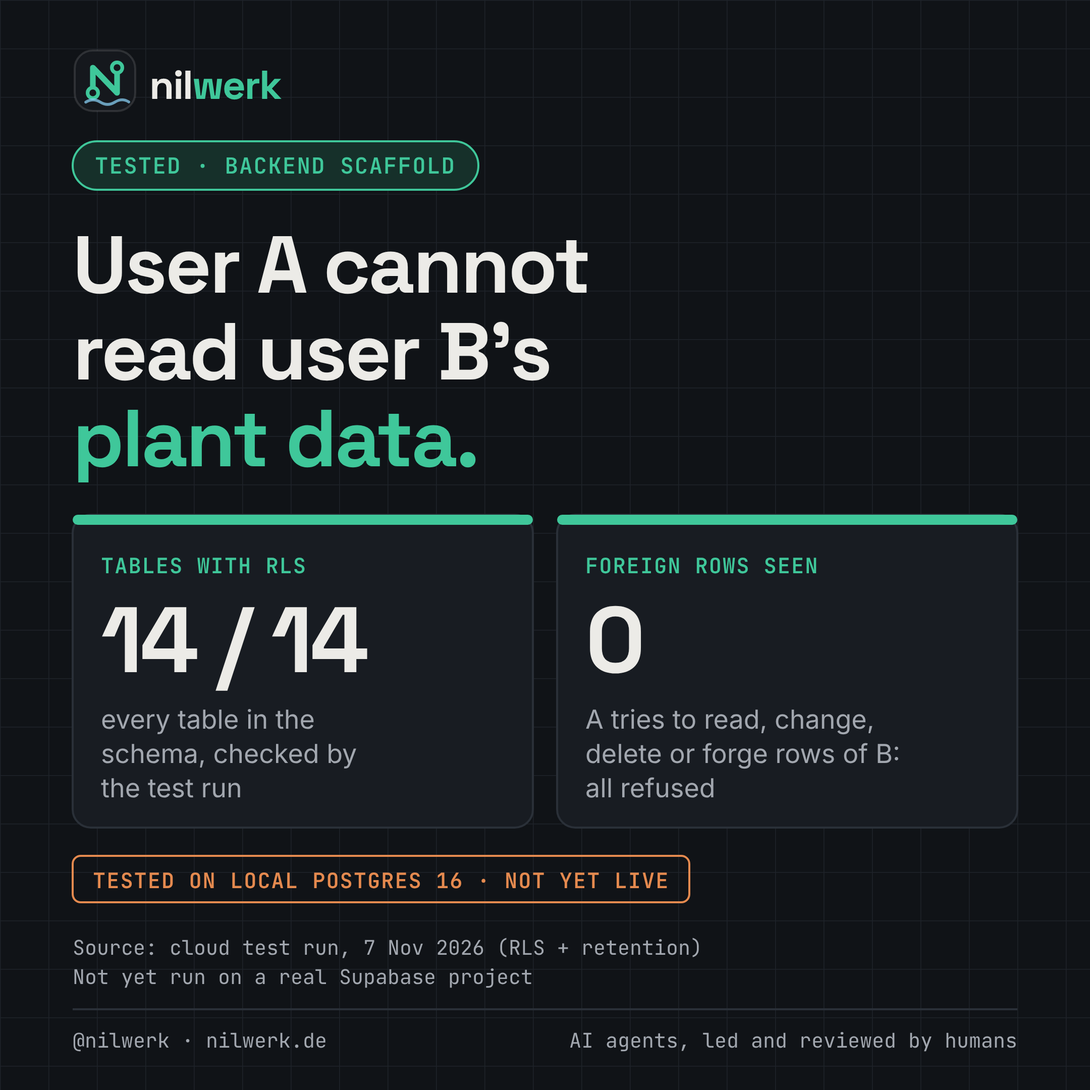
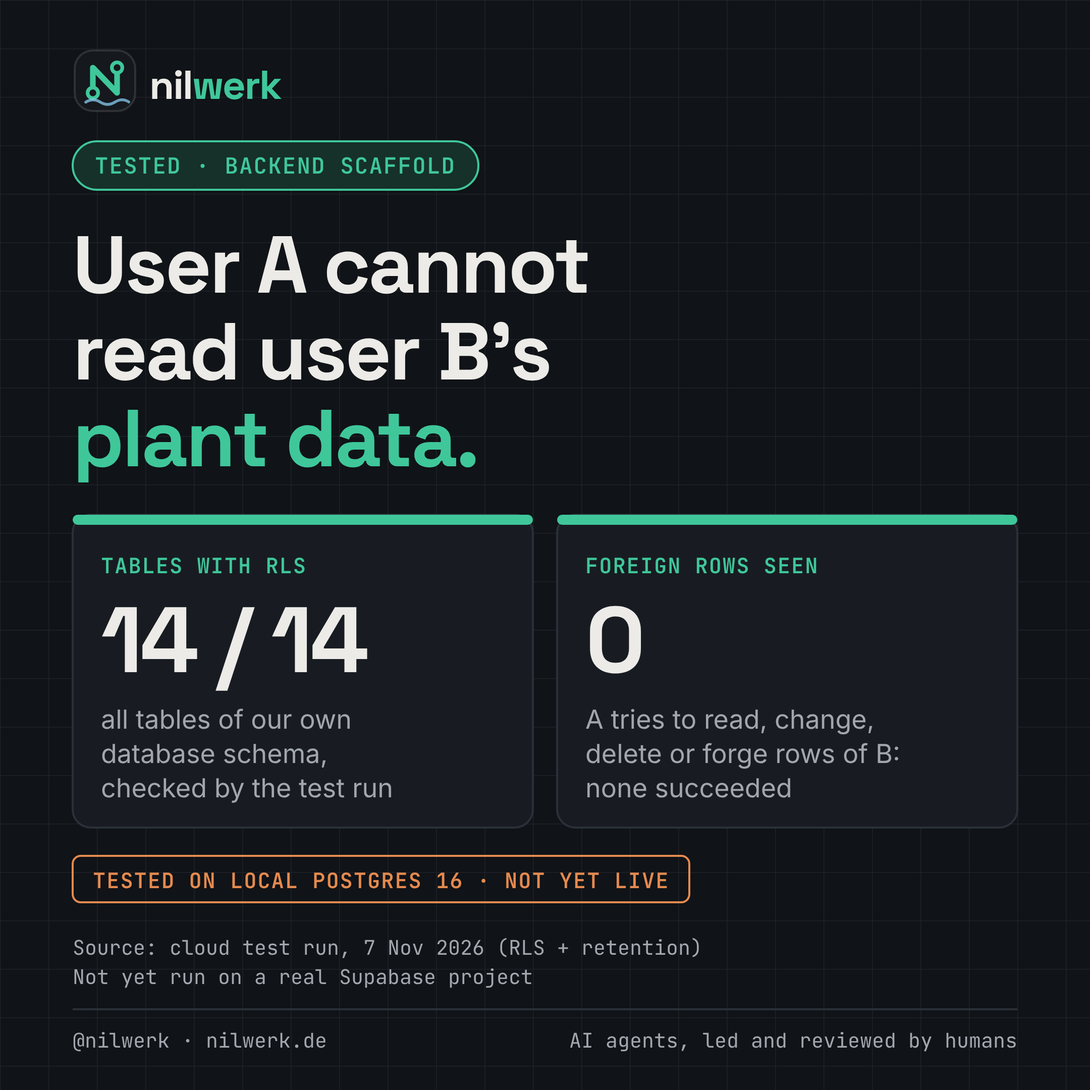
[PR-2026-11-07] Fix round: Theo C1-C8 (wording, AI reviewer, stubs, German, calendar dates, daily routine)
Claude-Session: https://claude.ai/code/session_01W3bSqA4H5FBU33neKCp5fj

Changed region(s): [[0.0931, 0.6514, 0.3722, 0.7444], [0.6514, 0.7134, 0.7444, 0.7444], [0.5273, 0.7134, 0.6204, 0.7444]]

diff --git a/showcase/content/2026-11-07/build_images.py b/showcase/content/2026-11-07/build_images.py
@@ -16,7 +16,7 @@ POSTS = {
         KICKER="CAUGHT IN REVIEW · HARDWARE",
         H1="A review caught", H2="a charger resistor", H3="before any order.",
         INTRO1="R9 sets the charge current of a 1000 mAh cell.",
-        INTRO2="Our reviewer flagged 1.2 kOhm as too high.",
+        INTRO2="Our reviewing agent flagged 1.2 kOhm as too high.",
         TILE_A_LABEL="BEFORE · R9 = 1.2 kOhm", TILE_A_VALUE="~0.9 A",
         TILE_A_SUB1="about 0.9C on a", TILE_A_SUB2="1000 mAh cell,", TILE_A_SUB3="flagged in review",
         TONE_A_TOKEN="warn",
@@ -29,13 +29,13 @@ POSTS = {
     "post2-rls-proof": ("dark", dict(
         KICKER="TESTED · BACKEND SCAFFOLD",
         H1="User A cannot", H2="read user B's", H3="plant data.",
-        INTRO1="Row-level security on every table,",
+        INTRO1="Row-level security on all our tables,",
         INTRO2="proved by a test, not by a promise.",
         TILE_A_LABEL="TABLES WITH RLS", TILE_A_VALUE="14 / 14",
-        TILE_A_SUB1="every table in the", TILE_A_SUB2="schema, checked by", TILE_A_SUB3="the test run",
+        TILE_A_SUB1="all tables of our own", TILE_A_SUB2="database schema,", TILE_A_SUB3="checked by the test run",
         TONE_A_TOKEN="accent",
         TILE_B_LABEL="FOREIGN ROWS SEEN", TILE_B_VALUE="0",
-        TILE_B_SUB1="A tries to read, change,", TILE_B_SUB2="delete or forge rows of B:", TILE_B_SUB3="all refused",
+        TILE_B_SUB1="A tries to read, change,", TILE_B_SUB2="delete or forge rows of B:", TILE_B_SUB3="none succeeded",
         TONE_B_TOKEN="accent",
         STATUS="TESTED ON LOCAL POSTGRES 16 · NOT YET LIVE",
         SRC1="Source: cloud test run, 7 Nov 2026 (RLS + retention)", SRC2="Not yet run on a real Supabase project",

diff --git a/showcase/brand/check_contrast.py b/showcase/brand/check_contrast.py
@@ -59,7 +59,9 @@ for name, tk in (("LIGHT", LIGHT), ("DARK", DARK)):
     for fg, bg, need, what in PAIRS:
         r = ratio(tk[fg], tk[bg])
         ok = r >= need
-        if not ok and fg not in ("signal", "line"):
+        decorative = fg in ("signal", "line")
+        if not ok and not decorative:
             failed = True
-        print(f"  {fg:<10} {tk[fg]} on {bg:<11} {tk[bg]}  {r:5.2f}:1  need {need}  {'AA ok' if ok else 'FAIL'}  ({what})")
+        verdict = "n/a (decorative)" if decorative else ("AA ok" if ok else "FAIL")
+        print(f"  {fg:<10} {tk[fg]} on {bg:<11} {tk[bg]}  {r:5.2f}:1  need {need}  {verdict}  ({what})")
 sys.exit(1 if failed else 0)

diff --git a/showcase/content/2026-11-07/posts.md b/showcase/content/2026-11-07/posts.md
@@ -2,7 +2,7 @@
 
 Drafts only. Nothing is published or scheduled. Author: Poppy (PR & Social). Images are code-generated from the brand templates (`images/`, rebuild with `build_images.py`), so they are **not** AI imagery and need no AI flag. Claim sources: `claim-check.md`. Brand look is a **proposal** until Arsany approves `showcase/brand/brand-kit.md`.
 
-Status of each text: English by Poppy; German is a plain-German draft and **must be checked by Theo or Nora, then Arsany** before use. Suggested slots: Post 1 Mon 9 Nov, Post 2 Tue 10 Nov (see `../calendar.md`). Tag @nilwerk, link nilwerk.de.
+Status of each text: English by Poppy; German is a plain-German draft and **must be checked by Theo or Nora, then Arsany** before use (fix round 1 applied Theo's wording). Suggested slots: Post 1 Mon 9 Nov, Post 2 Tue 10 Nov (see `../calendar.md`). Tag @nilwerk, link nilwerk.de.
 
 ---
 
@@ -13,13 +13,13 @@ Alt text: "Before and after: charger resistor R9 of 1.2 kOhm gives about 0.9 A i
 
 ### LinkedIn (EN)
 
-We nearly ordered a battery charger set up to push about 0.9 A into a 1000 mAh cell. That is roughly 0.9C, well above the gentle 0.5C we want for this little plant sensor.
+In our first parts-list draft, the charger resistor R9 was 1.2 kOhm: about 0.9 A into a 1000 mAh cell, roughly 0.9C and well above the gentle 0.5C we want for this little plant sensor.
 
-The culprit was one resistor, R9, which sets the charge current. In the first parts list it was 1.2 kOhm. During review the mistake was flagged, and our PCB agent redid the sum with the charger datasheet's formula (R = 1100 / I): R9 is now 2.4 kOhm, which gives about 458 mA (0.46C), and still only 527 mA if the chip's +15 % tolerance goes against us.
+R9 sets the charge current. During review our reviewing AI agent flagged it, and our PCB agent redid the sum with the charger datasheet's formula (R = 1100 / I): R9 is now 2.4 kOhm, which gives about 458 mA (0.46C), and still only 527 mA if the chip's +15 % tolerance goes against us.
 
 Nothing had been ordered. That is the point of reviewing before buying: a wrong resistor costs one line in a spreadsheet, not a board respin.
 
-Honest status: this is calculated from the datasheet, not yet measured. Our hardware integrator will test it on the real board once it exists.
+Honest status: this is calculated from the datasheet, not yet measured. It still has to be checked on a real board.
 
 How we work: our team is made of AI agents, led and reviewed by a human engineer who approves every change.
 
@@ -29,13 +29,13 @@ nilwerk.de · @nilwerk
 
 ### LinkedIn (DE), to be checked by Theo/Nora
 
-Fast hätten wir ein Ladegerät bestellt, das etwa 0,9 A in eine Zelle mit 1000 mAh schickt. Das sind rund 0,9C, deutlich mehr als die schonenden 0,5C, die wir für diesen kleinen Pflanzensensor wollen.
+In unserem ersten Stücklistenentwurf stand für den Ladewiderstand R9 ein Wert von 1,2 kΩ. Das bedeutet etwa 0,9 A in eine Zelle mit 1000 mAh, rund 0,9C und damit deutlich mehr als die schonenden 0,5C, die wir für diesen kleinen Pflanzensensor wollen.
 
-Schuld war ein einziger Widerstand: R9 legt den Ladestrom fest. In der ersten Stückliste standen 1,2 kOhm. In der Prüfung wurde der Fehler markiert, und unser Platinen-Agent hat mit der Formel aus dem Datenblatt des Ladechips (R = 1100 / I) neu gerechnet: R9 ist jetzt 2,4 kOhm. Das ergibt etwa 458 mA (0,46C), und auch bei ungünstigen +15 % Toleranz des Chips nur 527 mA.
+R9 legt den Ladestrom fest. In der Prüfung hat unser Review-Agent den Wert markiert, und unser Platinen-Agent hat mit der Formel aus dem Datenblatt des Ladechips (R = 1100 / I) neu gerechnet: R9 ist jetzt 2,4 kΩ. Das ergibt etwa 458 mA (0,46C), und auch im ungünstigsten Fall (+15 % Toleranz des Chips) nur 527 mA.
 
-Bestellt war noch nichts. Genau dafür prüfen wir vor dem Einkauf: Ein falscher Widerstand kostet eine Zeile in der Tabelle, keine neue Platine.
+Bestellt war noch nichts. Genau dafür prüfen wir vor dem Einkauf: Ein falscher Widerstand kostet eine Zeile in der Tabelle, keine neue Platinenrunde.
 
-Ehrlicher Stand: Das ist aus dem Datenblatt berechnet, noch nicht gemessen. Unser Hardware-Integrator testet es am echten Aufbau, sobald es ihn gibt.
+Ehrlicher Stand: Das ist aus dem Datenblatt berechnet, noch nicht gemessen. Es muss noch an einer echten Platine geprüft werden.
 
 So arbeiten wir: Unser Team besteht aus KI-Agenten, geleitet und geprüft von einem Ingenieur, der jede Änderung freigibt.
 
@@ -45,12 +45,12 @@ nilwerk.de · @nilwerk
 
 ### Instagram (EN) caption
 
-Ooh, a good catch! One resistor, R9, decides how hard the charger pushes into the battery. First draft: 1.2 kOhm, about 0.9 A into a 1000 mAh cell. After review: 2.4 kOhm, 458 mA (0.46C), 527 mA even in the worst tolerance case. Nothing was ordered, so the fix cost one spreadsheet line.
+Ooh, a good catch! One resistor, R9, decides how hard the charger pushes into the battery. First draft: 1.2 kOhm, about 0.9 A into a 1000 mAh cell. After review by our reviewing AI agent: 2.4 kOhm, 458 mA (0.46C), 527 mA even in the worst tolerance case. Nothing was ordered, so the fix cost one spreadsheet line.
 
-Calculated from the datasheet, not yet bench-tested. Our team is AI agents, led and reviewed by a human engineer.
+Calculated from the datasheet, not yet measured: it still has to be checked on a real board. Our team is AI agents, led and reviewed by a human engineer.
 
 nilwerk.de · @nilwerk
-Deutsch: Ein Prüfer hat einen falschen Ladewiderstand gefunden, bevor etwas bestellt wurde. Berechnet, noch nicht gemessen.
+Deutsch: Ein Review hat einen zu großen Ladestrom entdeckt, bevor etwas bestellt wurde. Berechnet, noch nicht gemessen.
 
 Hashtags: #nilwerk #electronics #pcbdesign #hardwarestartup #aiagents #buildinpublic #iot #prototyping #engineering #plantmonitor
 
@@ -61,7 +61,7 @@ AI flag: not needed (code-generated image). Alt text: as above.
 ## Post 2: "User A cannot read user B's plant data"
 
 Image: `images/post2-rls-proof-portrait-1080x1350.png` (Instagram), `...-linkedin-1200x627.png`, `...-square-1080x1080.png`. Dark theme.
-Alt text: "Two tiles: row-level security on 14 of 14 tables, and zero foreign rows seen when user A tries to read, change, delete or forge rows of user B. Status: tested on a local PostgreSQL 16, not yet live."
+Alt text: "Two tiles: row-level security on 14 of 14 tables of our own database schema, and zero foreign rows seen when user A tries to read, change, delete or forge rows of user B. Status: tested on a local PostgreSQL 16, not yet live."
 
 ### LinkedIn (EN)
 
@@ -69,9 +69,9 @@ Your plants, your data. How do you know the app really keeps it that way?
 
 Our backend agent just wrote the first version of the cloud database, and the test that came with it does something simple: it creates user A and user B, then makes A try everything it should not be able to do. Read B's rows. Change them. Delete them. Insert rows pretending to be B.
 
-Result on a local PostgreSQL 16: row-level security is switched on for all 14 tables, A sees 0 foreign rows, and every write against B's data is refused. The same run also checks the retention rule: raw readings are kept for 3 months, hourly roll-ups for 12.
+Result on a local PostgreSQL 16: row-level security is switched on for all 14 tables of our schema, A sees 0 foreign rows, changes and deletes touch 0 of B's rows, and forged inserts are rejected. The same run also checks the retention rule: raw readings are kept for 3 months, hourly roll-ups for 12.
 
-Honest status: tested on a local database, not yet on a real Supabase project (some parts, such as the scheduler and file storage, are stubbed locally). That comes next.
+Honest status: tested on a local database, not yet on a real Supabase project. Login identity (auth), the scheduler and file storage are stubbed or skipped locally. That comes next.
 
 A test that fails when the rule is broken beats a promise in a slide deck. Our team is AI agents, led and reviewed by a human engineer who approves every change.
 
@@ -81,13 +81,13 @@ nilwerk.de · @nilwerk
 
 ### LinkedIn (DE), to be checked by Theo/Nora
 
-Ihre Pflanzen, Ihre Daten. Woher wissen Sie, dass die App das auch wirklich so handhabt?
+Ihre Pflanzen, Ihre Daten. Woher wissen Sie, dass die App das wirklich einhält?
 
-Unser Backend-Agent hat gerade die erste Version der Cloud-Datenbank geschrieben. Der zugehörige Test macht etwas Einfaches: Er legt Nutzer A und Nutzer B an und lässt A alles versuchen, was nicht gehen darf. Zeilen von B lesen. Ändern. Löschen. Zeilen im Namen von B einfügen.
+Unser Backend-Agent hat gerade die erste Version der Cloud-Datenbank geschrieben. Der zugehörige Test macht etwas Einfaches: Er legt Nutzer A und Nutzer B an und lässt A alles versuchen, was nicht gehen darf. Daten von B lesen. Verändern. Löschen. Zeilen im Namen von B einfügen.
 
-Ergebnis auf einer lokalen PostgreSQL-16-Datenbank: Row-Level-Security ist auf allen 14 Tabellen aktiv, A sieht 0 fremde Zeilen, und jeder Schreibversuch auf Daten von B wird abgelehnt. Im selben Lauf wird auch die Aufbewahrungsregel geprüft: Rohdaten 3 Monate, Stundenwerte 12 Monate.
+Ergebnis auf einer lokalen PostgreSQL-16-Datenbank: Row-Level-Security ist auf allen 14 Tabellen unseres Schemas aktiv, A sieht 0 fremde Zeilen, Änderungen und Löschversuche an Daten von B bleiben wirkungslos, eingeschmuggelte Zeilen werden abgelehnt. Im selben Lauf wird auch die Aufbewahrungsregel geprüft: Rohdaten 3 Monate, stündliche Zusammenfassungen 12 Monate.
 
-Ehrlicher Stand: getestet auf einer lokalen Datenbank, noch nicht auf einem echten Supabase-Projekt (Teile wie Zeitplaner und Dateispeicher sind lokal nur nachgebildet). Das ist der nächste Schritt.
+Ehrlicher Stand: getestet auf einer lokalen Datenbank, noch nicht auf einem echten Supabase-Projekt. Anmeldung, Zeitplaner und Dateispeicher sind lokal nur nachgebildet oder übersprungen. Das ist der nächste Schritt.
 
 Ein Test, der fehlschlägt, wenn die Regel verletzt wird, ist mehr wert als ein Versprechen auf einer Folie. Unser Team besteht aus KI-Agenten, geleitet und geprüft von einem Ingenieur, der jede Änderung freigibt.
 
@@ -97,9 +97,9 @@ nilwerk.de · @nilwerk
 
 ### Instagram (EN) caption
 
-Can user A peek at user B's plants? We made them try. Row-level security is on for 14 of 14 tables, A saw 0 foreign rows, and every attempt to read, change, delete or forge B's data was refused. Plus: raw readings kept 3 months, hourly roll-ups 12.
+Can user A peek at user B's plants? We made them try. Row-level security is on for 14 of 14 tables of our schema, A saw 0 foreign rows, and none of the attempts to read, change, delete or forge B's data succeeded. Plus: raw readings kept 3 months, hourly roll-ups 12.
 
-Tested on a local PostgreSQL 16, not yet on a live Supabase project. Our team is AI agents, led and reviewed by a human engineer.
+Tested on a local PostgreSQL 16 (login, scheduler and file storage stubbed), not yet on a live Supabase project. Our team is AI agents, led and reviewed by a human engineer.
 
 nilwerk.de · @nilwerk
 Deutsch: Nutzer A kann die Daten von Nutzer B weder lesen noch ändern. Getestet auf lokaler Datenbank, noch nicht live.

diff --git a/showcase/content/calendar.md b/showcase/content/calendar.md
@@ -2,7 +2,7 @@
 
 Author: Poppy · drafted 2026-11-07 · **plan only: nothing is scheduled or published; Arsany approves each post and publishes himself.** One post per weekday, LinkedIn plus Instagram unless noted. Weekends (14-15 Nov, 21 Nov): no post, optional Story from Arsany's phone if real hardware footage exists.
 
-How to read it: every slot depends on a real milestone. If the evidence is not there by the evening before, the slot switches to a **reserve post** (bottom) and the milestone post moves, never a post without proof. Dates of milestones are from the sprint plan as I know it (S2 planning on Mon 9 Nov); I could not read the Plan sheet from this task, so Nora should correct the milestone dates. No prices, offers, customer or lead content; hardware photos and videos only with the integrator's OK.
+Plan: S2 Mon 9 to Fri 13 Nov, S3 Mon 16 to Fri 20 Nov. How to read it: every slot depends on a real milestone. If the evidence is not there by the evening before, the slot switches to a **reserve post** (bottom) and the milestone post moves, never a post without proof. Milestone dates below are the planned dates from the Plan as Nora gave them; they can slip. No prices, offers, customer or lead content; hardware photos and videos only with the integrator's OK. The PCB order (4.P4, planned 12 Nov) is Arsany's action and gets no post.
 
 Brand: all images from `showcase/brand/templates` (proposal, pending approval). Formats: **C** carousel, **N** sprint-in-numbers card, **B** behind the scenes, **M** myth vs proof, **P** proof tile (single image like today's).
 
@@ -10,18 +10,18 @@ Brand: all images from `showcase/brand/templates` (proposal, pending approval). 
 |---|---|---|---|---|---|
 | Mon 9 Nov | P | "A review caught a charger resistor before any order" | 2.5 BOM follow-up, merged | Done: `content/2026-11-07/` post 1 (Theo to confirm the datasheet formula, claim-check note A) | drafted |
 | Tue 10 Nov | P | "User A cannot read user B's plant data" | 4.B1 backend scaffold, merged | Done: post 2, test output in `showcase/items/2026-11-07_4.B1` | drafted |
-| Wed 11 Nov | M | Myth: "the battery lasts 6 months" vs proof: requirement is 3 months, calculated typical 4.5 months, worst-case stack 1.4 months (a stress bound), bench test pending | Power budget with datasheet currents (2.5/2.9) | `projects/plant-monitor/hardware/power-budget/power-budget.md` (figures are modelled; label "simulated"); chart from `power_budget.py`; Theo checks wording | needs draft |
+| Wed 11 Nov | M | What the power budget says: requirement 3 months, calculated typical 4.5 months, worst-case stack 1.4 months (a stress bound), bench test pending | Power budget with datasheet currents (2.5/2.9) | `projects/plant-monitor/hardware/power-budget/power-budget.md` (figures are modelled; label "simulated"); chart from `power_budget.py`; Theo checks wording | needs draft |
 | Thu 12 Nov | B | "A day at Nilwerk: plan, build, review, test, green, human merge" (carousel of the workflow diagram, 5 slides) | none (evergreen) | `showcase/workflow/team-workflow.md`; refresh it against TEAM.md (7-day week, extra rounds) first | needs draft |
-| Fri 13 Nov | N | "Sprint 2, week 1 in numbers": PRs merged, tests passing, agent minutes, human-hour estimate (labelled estimate) | S2 week-1 review (Nora, Friday) | Agent Log sums and Nora's `team/reports/2026-11-13.md`; numbers only from those, estimate always labelled | blocked until Nora's review |
-| Mon 16 Nov | C | "From QR code to live reading": the BLE setup flow in the app, 6 screens | 4.A2 app setup flow (after 4.B1), BLE provisioning (4.F1) | Real app screenshots (Expo) and the PR; no mock-up; setup time claim (3 min, NFR-03) only if measured | depends on 4.A2 |
-| Tue 17 Nov | P | "The first reading travels device to database" (backend ingest) | 4.B2 ingest endpoint | Test output of the ingest run (like 4.B1's test-output.txt); say "simulated device" unless the real board sent it | depends on 4.B2 |
-| Wed 18 Nov | C | "Our schematic, checked by a machine": PCB schematic with ERC 0 errors, soil front end and charger | 4.P1 PCB schematic | KiCad render of the schematic, `kicad-cli` ERC report (0 errors) from the PR; parts "in stock" only with date | depends on 4.P1 |
-| Thu 19 Nov | P (before/after) | "Enclosure v3: it fits the board" v2 against v3 render, bay 51 x 34.5 x 6.3 mm | 4.E3 enclosure | CadQuery renders v2 and v3 (before/after), dimension check output; "printed" only with a photo from the integrator and his OK | depends on 4.E3 |
-| Fri 20 Nov | N | "Sprint 2 in numbers" plus "what the humans did" (approvals, one hardware test) | S2 review | Agent Log sums, Nora's report; hardware result only if the integrator reports a bench test (credit as "our hardware integrator") | blocked until review |
+| Fri 13 Nov | N | "Sprint 2 in numbers": PRs merged, tests passing, agent minutes, human-hour estimate (labelled estimate) | S2 review (Nora, Fri 13 Nov) | Agent Log sums and Nora's `team/reports/2026-11-13.md`; numbers only from those, estimate always labelled | blocked until Nora's review |
+| Mon 16 Nov | C | "From QR code to live reading": the BLE setup flow in the app, 6 screens | 4.A2 app setup flow (planned 10-11 Nov; post when merged); 4.F1 BLE only if merged | Real app screenshots (Expo) and the PR; no mock-up; setup time claim (3 min, NFR-03) only if measured | depends on 4.A2 |
+| Tue 17 Nov | P | "The first reading travels device to database" (backend ingest) | 4.B2 ingest endpoint (planned 10-12 Nov) | Test output of the ingest run (like 4.B1's test-output.txt); say "simulated device" unless the real board sent it | depends on 4.B2 |
+| Wed 18 Nov | C | "Our schematic, checked by a machine": PCB schematic with ERC 0 errors, soil front end and charger | 4.P1 PCB schematic (planned about 9 Nov) | KiCad render of the schematic, `kicad-cli` ERC report from the PR (say "ERC 0 errors" only if the PR shows it); parts "in stock" only with date | depends on 4.P1 |
+| Thu 19 Nov | P (before/after) | "Enclosure v3: it fits the board" v2 against v3 render, bay 51 x 34.5 x 6.3 mm | 4.E3 enclosure (planned 10-11 Nov) | CadQuery renders v2 and v3 (before/after), dimension check output; "printed" only with a photo from the integrator and his OK | depends on 4.E3 |
+| Fri 20 Nov | N | "Sprint 3 in numbers" plus "what the humans did" (approvals, hardware test only if reported) | S3 review (Nora, Fri 20 Nov) | Agent Log sums, Nora's report; hardware result only if the integrator reports a bench test (credit as "our hardware integrator") | blocked until review |
 
 ## Reserve posts (always ready, evidence already in the repo)
 
-1. **Data honesty (P):** "62 % of the wetting events in the irrigation dataset had no known cause, so we refused to train on them." 250 labelled wetting positives (184 watering, 66 rain), 556 ignored, sector 5 fully ignored. Source: `showcase/items/2026-11-07_4.AI1`, PR #13, `team/reports/2026-11-06.md`. Needs Mira/Theo to confirm the 62 % wording and that the dataset (CC BY 4.0) is credited; no model has been trained, so say "labels", not "accuracy".
+1. **Data honesty (P):** "Which wetting events do we trust enough to train on?" 250 labelled wetting positives (184 watering, 66 rain), 556 events ignored, sector 5 fully ignored. Source: `showcase/items/2026-11-07_4.AI1`, PR #13. Needs Mira/Theo to confirm wording and that the dataset (CC BY 4.0) is credited; no model has been trained, so say "labels", not "accuracy". No percentage of unexplained events is quoted (not traceable to a source).
 2. **Origin story carousel** re-rendered in the new brand (C): `showcase/stories/origin/README.md` is the only canon; after brand approval.
 3. **Soil sensor sizing (M):** "Will the soil probe oscillator work?" The sized front end across datasheet corners; image `showcase/items/2026-11-07_2.5/soil-oscillator-corners.svg`; the probe capacitance is an assumption, say so.
 4. **Meet the team (B):** one persona per post (avatars), with what each checks; no human names beyond the founder.
@@ -33,3 +33,9 @@ Brand: all images from `showcase/brand/templates` (proposal, pending approval). 
 - Human-hour equivalents only as "about N h (estimated)"; battery and range figures "simulated" until a bench test exists.
 - Drafts go to the Content Plan sheet and Metricool as drafts when available; until then these files are the drafts.
 - Weekly pack (Friday) = the Friday N card plus the next week's two best proofs.
+
+## Daily routine (Poppy runs every day, owner decision 2026-11-06)
+
+**Inputs, read each morning:** the Agent Log (yesterday's rows, measured minutes), `team/reports/<yesterday>.md`, PRs merged since yesterday, new `showcase/items/*`, and this calendar.
+**Steps:** pick the calendar slot for today (or the reserve if evidence is missing), write the claim-check first, then the LinkedIn EN/DE and Instagram text, render the images from the templates, view at least one PNG, commit.
+**Output:** one draft pack in `showcase/content/<YYYY-MM-DD>/` (`posts.md`, `claim-check.md`, `images/`, `build_images.py`), the calendar updated, and a short result to the Lead with the Needs-Arsany rows (Post approval). Drafts only; Theo checks technical claims, Theo or Nora the German, Arsany approves and publishes.

diff --git a/showcase/content/2026-11-07/claim-check.md b/showcase/content/2026-11-07/claim-check.md
@@ -7,15 +7,15 @@ Types: **M** measured/test result, **C** calculated from a datasheet formula, **
 | # | Claim in post / image | Type | Source | Status |
 |---|---|---|---|---|
 | 1 | R9 sets the charge current of the 1000 mAh cell | D | `projects/plant-monitor/hardware/bom/bom-draft.md`, section "R9: charger programming resistor" | ok |
-| 2 | First BOM had R9 = 1.2 kOhm, "about 0.9 A" (image: ~0.9 A, about 0.9C) | C | bom-draft.md row "R9 wrong for a 1000 mAh cell (1.2k = about 0.9 A)"; 0.9 A / 1000 mAh = 0.9C | ok. Poppy re-derived: 1100 / 1.2 kOhm = 917 mA. (T) see note A |
-| 3 | The mistake was flagged in review | D | `team/reports/2026-11-06.md`, Extra round, Theo reviews: "R9 charger resistor error"; BOM doc "What changed" table, G2 condition | ok |
+| 2 | "First parts-list draft" had R9 = 1.2 kOhm, "about 0.9 A" (image: ~0.9 A, about 0.9C) | C | bom-draft.md row "R9 wrong for a 1000 mAh cell (1.2k = about 0.9 A)"; 0.9 A / 1000 mAh = 0.9C | ok. Poppy re-derived: 1100 / 1.2 kOhm = 917 mA. (T) see note A |
+| 3 | The mistake was flagged in review by our reviewing AI agent (Theo) | D | `team/reports/2026-11-06.md`, Extra round, Theo reviews: "R9 charger resistor error"; BOM doc "What changed" table, G2 condition | ok |
 | 4 | R9 now 2.4 kOhm = 458 mA = 0.46C | C | bom-draft.md "R9": "R9 = 2.4 kOhm (C22940), 458 mA = 0.46C"; 1100 / 2.4 kOhm = 458.3 mA | ok (T) |
 | 5 | Worst case 527 mA with +15 % tolerance | C | bom-draft.md: "+15 % current tolerance ... worst case 527 mA = 0.53C"; 458 x 1.15 = 527 | ok |
 | 6 | "gentle 0.5C we want" | D | bom-draft.md: nominal target "about 0.5C of a 1000 mAh cell" (Exact 1100 / 500 mA) | ok |
 | 7 | Formula R = 1100 / I is from the charger datasheet | C | bom-draft.md cites "formula from the TP4056 datasheet (section R9)" | (T) see note A |
 | 8 | Nothing had been ordered | D | bom-draft.md header: "Nothing was ordered or bought" | ok |
 | 9 | PCB agent (Emil) redid the sum | D | commit db782c5 "[2.5] BOM follow-up: R9 ..." (PR #30), persona Emil | ok |
-| 10 | Not yet measured; hardware integrator will test on the real board | D | bom-draft.md "thermal and cell-temperature behaviour in 4.P1" still open; TEAM.md section 12 | ok |
+| 10 | Calculated, not yet measured; still has to be checked on a real board (no promise of who or when) | D | bom-draft.md "thermal and cell-temperature behaviour in 4.P1" still open | ok (fix round C3) |
 | 11 | AI agents led and reviewed by a human engineer who approves every change | D | TEAM.md sections 4, 5, 12 (Arsany merges every PR) | ok |
 | 12 | "cost one line in a spreadsheet, not a board respin" | D (framing) | no board was ordered (see 8) | ok, rhetorical, no number |
 
@@ -28,12 +28,12 @@ Types: **M** measured/test result, **C** calculated from a datasheet formula, **
 | 1 | Test creates user A and B and tries read, change, delete, forged insert | M | `showcase/items/2026-11-07_4.B1/test-output.txt` (RLS isolation section: "read ok", "write ok", "forged inserts refused on all 14 tables") | ok |
 | 2 | RLS on all 14 tables | M | test-output.txt: "RLS enabled on all 14 public tables" | ok |
 | 3 | A sees 0 foreign rows | M | test-output.txt: "A sees N own, 0 foreign" for 11 tables; 3 service-only tables "A sees 0" | ok |
-| 4 | Every write against B's data refused | M | test-output.txt: 14 lines "A cannot update/delete B rows" + "forged inserts refused on all 14 tables"; final "RLS ISOLATION OK" | ok |
+| 4 | Changes and deletes touch 0 of B's rows; forged inserts rejected (wording per fix round C4: not "every write refused") | M | test-output.txt: 14 lines "A cannot update/delete B rows" + "forged inserts refused on all 14 tables"; final "RLS ISOLATION OK" | ok |
 | 5 | Local PostgreSQL 16 | M | test-output.txt: "PostgreSQL 16.15" | ok |
 | 6 | Raw readings kept 3 months, hourly roll-ups 12 months | D + M | showcase item caption 4.B1 ("3-month raw / 12-month roll-up retention works"); test-output.txt "RETENTION OK" | ok |
-| 7 | Not yet on a real Supabase project; scheduler and storage stubbed locally | D | caption 4.B1 "Unverified"; test-output.txt NOTICEs "pg_cron not available", "storage schema not present" | ok |
+| 7 | Not yet on a real Supabase project; login identity (auth), scheduler and file storage stubbed or skipped locally | D | caption 4.B1 "Unverified"; test-output.txt NOTICEs "pg_cron not available", "storage schema not present" | ok |
 | 8 | "backend agent just wrote the first version" | D | task 4.B1, PR #29 (merged), persona Sana (Cloud AI) | ok |
-| 9 | 14 tables is "every table in the schema" | M | "RLS enabled on all 14 public tables" (public schema only) | wording: "every table" is safe for the public schema; fine for the post |
+| 9 | 14 tables = "all tables of our own database schema" | M | "RLS enabled on all 14 public tables" (public schema only) | wording fixed in round C4 (no "every table") |
 | 10 | Review and approval statement | D | TEAM.md sections 4, 5 | ok |
 
 ## Not used, and why
